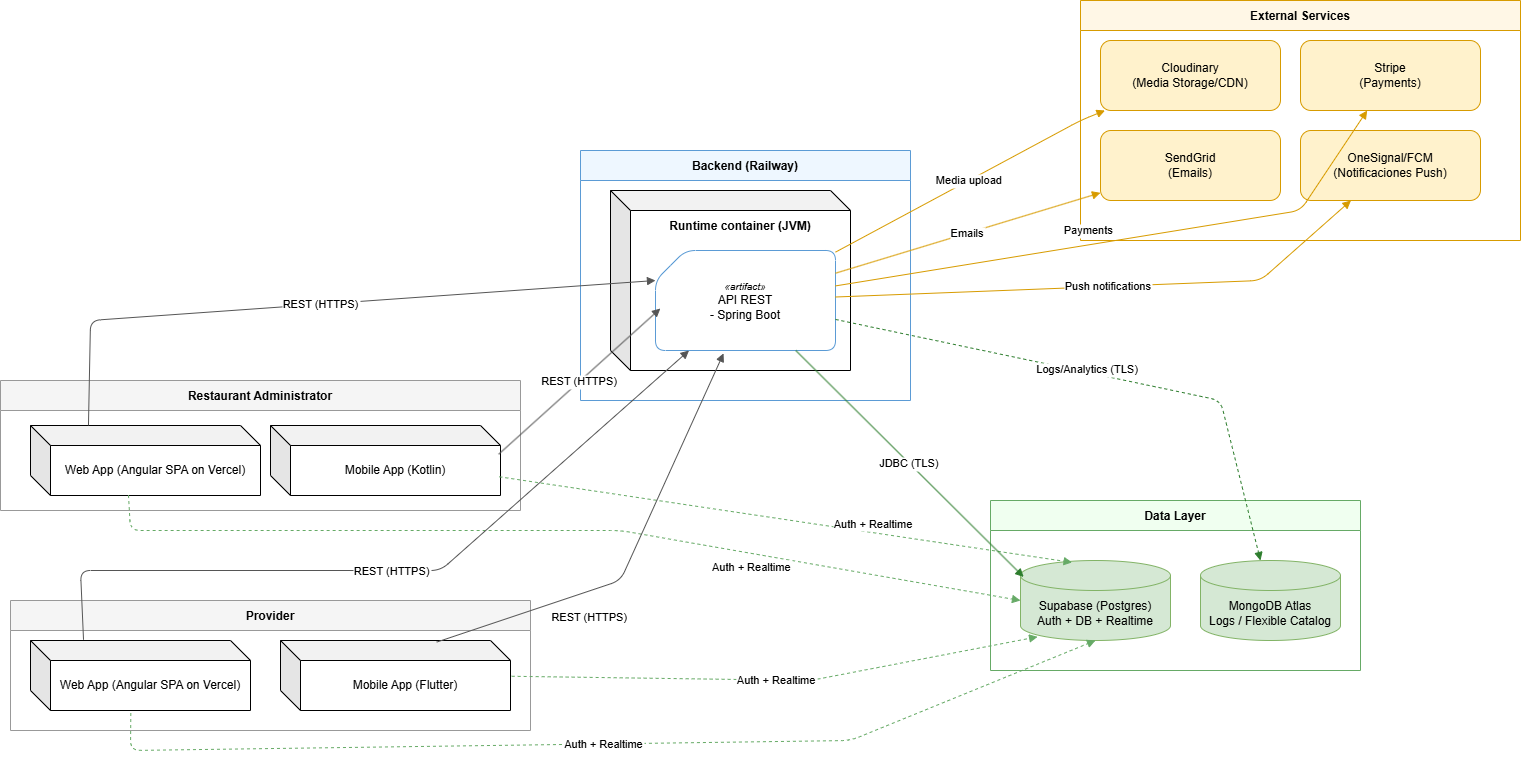
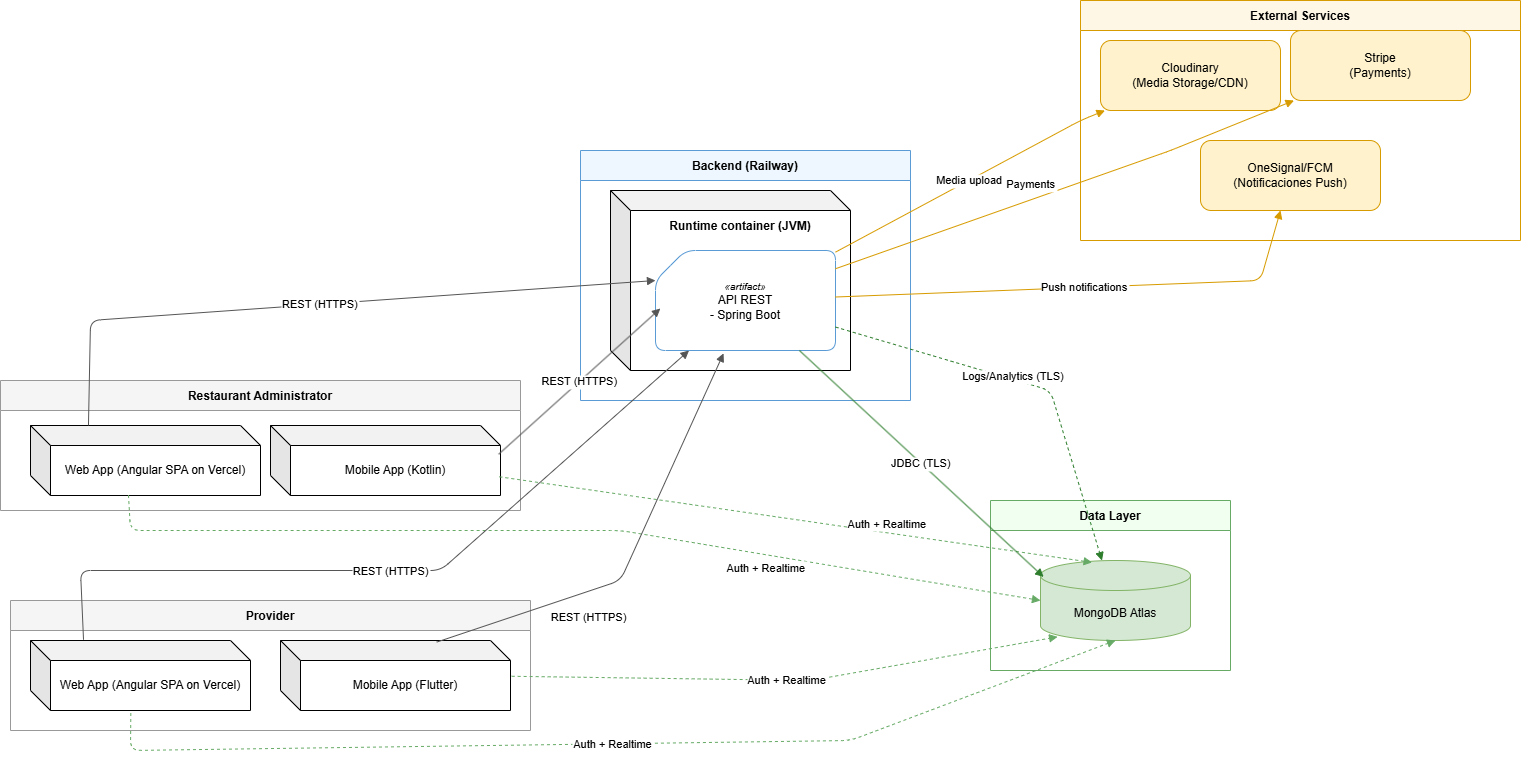
fix: update PurchaseOrdersController and refine deployment diagram layout

diff --git a/05-cap4-solution-software-design.md b/05-cap4-solution-software-design.md
@@ -587,7 +587,7 @@ interface PurchaseOrderRepository {
 **Controllers (HTTP – REST)**
 
 * **SalesController**
-* **PurchaseOrdersController**
+
 
 **Consumers (mensajería)**
 
@@ -599,13 +599,10 @@ interface PurchaseOrderRepository {
 **Commands**
 
 * RegisterSaleCommand { dinerName?, adminRestaurantId, occurredAt, currency, recipeLines[{recipeId, quantity}], additionalSupplies[{supplyId, quantity}] }
-* VoidSaleCommand { saleId, reason }
-* CreatePoCommand { supplierId }, AddPoLineCommand { ... }, SubmitPoCommand, ApprovePoCommand, SendPoCommand, PostGoodsReceiptCommand {poId, lines[{supplyId, receivedQty}]}
 
 **Queries**
 
 * GetSaleByIdQuery, SearchSalesQuery, SalesSummaryQuery, TopRecipesQuery
-* GetPurchaseOrderByIdQuery, SearchPurchaseOrdersQuery
 
 **Handlers (ejemplos)**
 
@@ -623,7 +620,6 @@ interface PurchaseOrderRepository {
   "_id": "sale_01JKM...",
   "adminRestaurantId": "rest_123",
   "dinerName": "Mesa 5",
-  "occurredAt": "2025-09-10T13:15:00Z",
   "currency": "PEN",
   "recipeLines": [
     { "recipeId": "rec_01HZY...", "recipeName_snapshot": "Lomo Saltado",
@@ -639,33 +635,10 @@ interface PurchaseOrderRepository {
     "subtotal": { "$numberDecimal": "57.80" },
     "tax":      { "$numberDecimal": "10.40" },
     "total":    { "$numberDecimal": "68.20" }
-  },
-  "status": "Registered",
-  "inventoryApplied": false,
-  "audit": { "createdBy": "admin_1", "createdAt": "2025-09-10T13:15:01Z" }
+  }
 }
 ```
 
-* **purchase_orders** — *Aggregate con líneas y recepciones embebidas*:
-
-```json
-{
-  "_id": "po_2025_001",
-  "supplierId": "sup_ABC",
-  "orderedAt": "2025-09-10T09:00:00Z",
-  "expectedAt": "2025-09-12T18:00:00Z",
-  "status": "Sent",
-  "lines": [
-    { "supplyId": "sup_beef_topside", "quantity": { "$numberDecimal": "15.0" },
-      "unitPrice": { "$numberDecimal": "18.50" }, "currency": "PEN" }
-  ],
-  "receipts": [
-    { "receiptId": "gr_01", "receivedAt": "2025-09-12T19:10:00Z",
-      "lines": [{ "supplyId": "sup_beef_topside", "receivedQty": { "$numberDecimal": "15.0" } }] }
-  ],
-  "audit": { "createdBy": "admin_1", "createdAt": "2025-09-10T09:00:00Z" }
-}
-```
 
 ### 4.2.6.5. Bounded Context Software Architecture Component Level Diagrams
 
